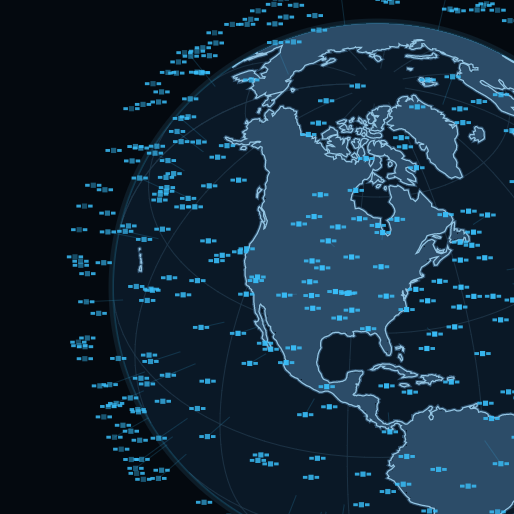
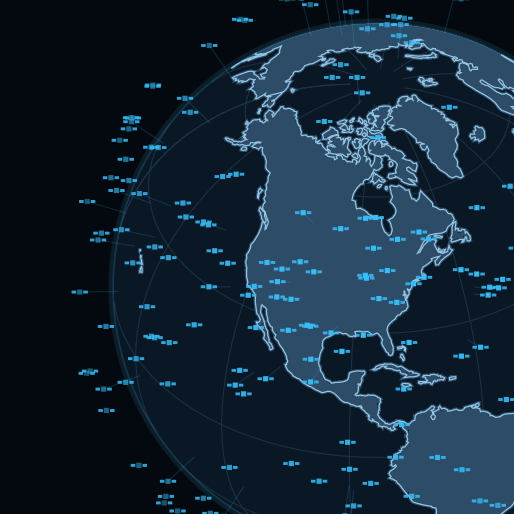
Scatter the plotted satellites instead of taking every nth
Taking every nth satellite kept the constellation's own phasing, so the marks
landed in evenly spaced rows: with the marks at twice the size that read as a
checkered sheet laid over the globe, and it got worse the larger they grew.
The subset is now chosen by hashing each catalogue number, which scatters the
plotted satellites across the sky, and fewer are plotted so each mark reads as a
satellite rather than as a cell in a grid. The hash is fixed, so the same
satellites are plotted every tick instead of blinking in and out.

🤖 Generated with Codebuff

diff --git a/desktop/src/main/java/dev/skyward/rf/desktop/ui/MapView.kt b/desktop/src/main/java/dev/skyward/rf/desktop/ui/MapView.kt
@@ -496,21 +496,24 @@ private fun DrawScope.drawMap(
     // map samples it: the count stays the true total, and the picture stays a picture. The step is
     // taken in catalogue order, so the same satellites are plotted on every tick instead of a
     // different random subset popping in and out.
-    // The plotted count is set against the mark's size, not on its own: a doubled mark at the old
-    // spacing covered four times the sky and tiled into a checkerboard of squares. Half as many
-    // marks at twice the size keeps the same amount of ink on the ball.
-    val plotted = if (sats.size > 3_000) 900 else sats.size
-    val satStep = if (sats.size > plotted) sats.size / plotted + 1 else 1
+    // The subset is picked by hashing each satellite's catalogue number, not by taking every nth
+    // one. A constellation is evenly phased, so a stride samples it evenly and the marks line up in
+    // rows - a checkered sheet laid over the globe. A hash scatters them, and because the hash is
+    // fixed the same satellites are plotted on every tick instead of blinking in and out.
+    val plotted = if (sats.size > 3_000) 500 else sats.size
+    val every = if (sats.size > plotted) sats.size / plotted else 1
     // The line down to the ground is what makes the ball read as a shell rather than a sticker,
     // but one per satellite crossed into a lattice of wires that looked like a checkered texture
     // laid over the map. A share of them carries the same sense of depth with no visible grid.
     val tetherStep = if (sats.size > 3_000) 5 else 1
     sats.forEachIndexed { index, sat ->
-        if (index % satStep != 0) return@forEachIndexed
+        if (every > 1 && Math.floorMod(sat.noradId.hashCode(), every) != 0) return@forEachIndexed
         val lift = (ln(1.0 + sat.altKm * 1000.0 / 500.0) * 0.022).coerceIn(0.0, 0.30)
         if (!place(sat.lat, sat.lon, lift)) return@forEachIndexed
         val at = Offset(pt[0], pt[1])
-        if (t > 0.5f && index % (satStep * tetherStep) == 0 && place(sat.lat, sat.lon, 0.0)) {
+        if (t > 0.5f && Math.floorMod(sat.noradId.hashCode(), every * tetherStep) == 0 &&
+            place(sat.lat, sat.lon, 0.0)
+        ) {
             drawLine(Desk.cyan.copy(alpha = 0.18f), Offset(pt[0], pt[1]), at, 1f)
         }
         // A satellite reads as a satellite rather than as a dot: the layer glyph's body and two
